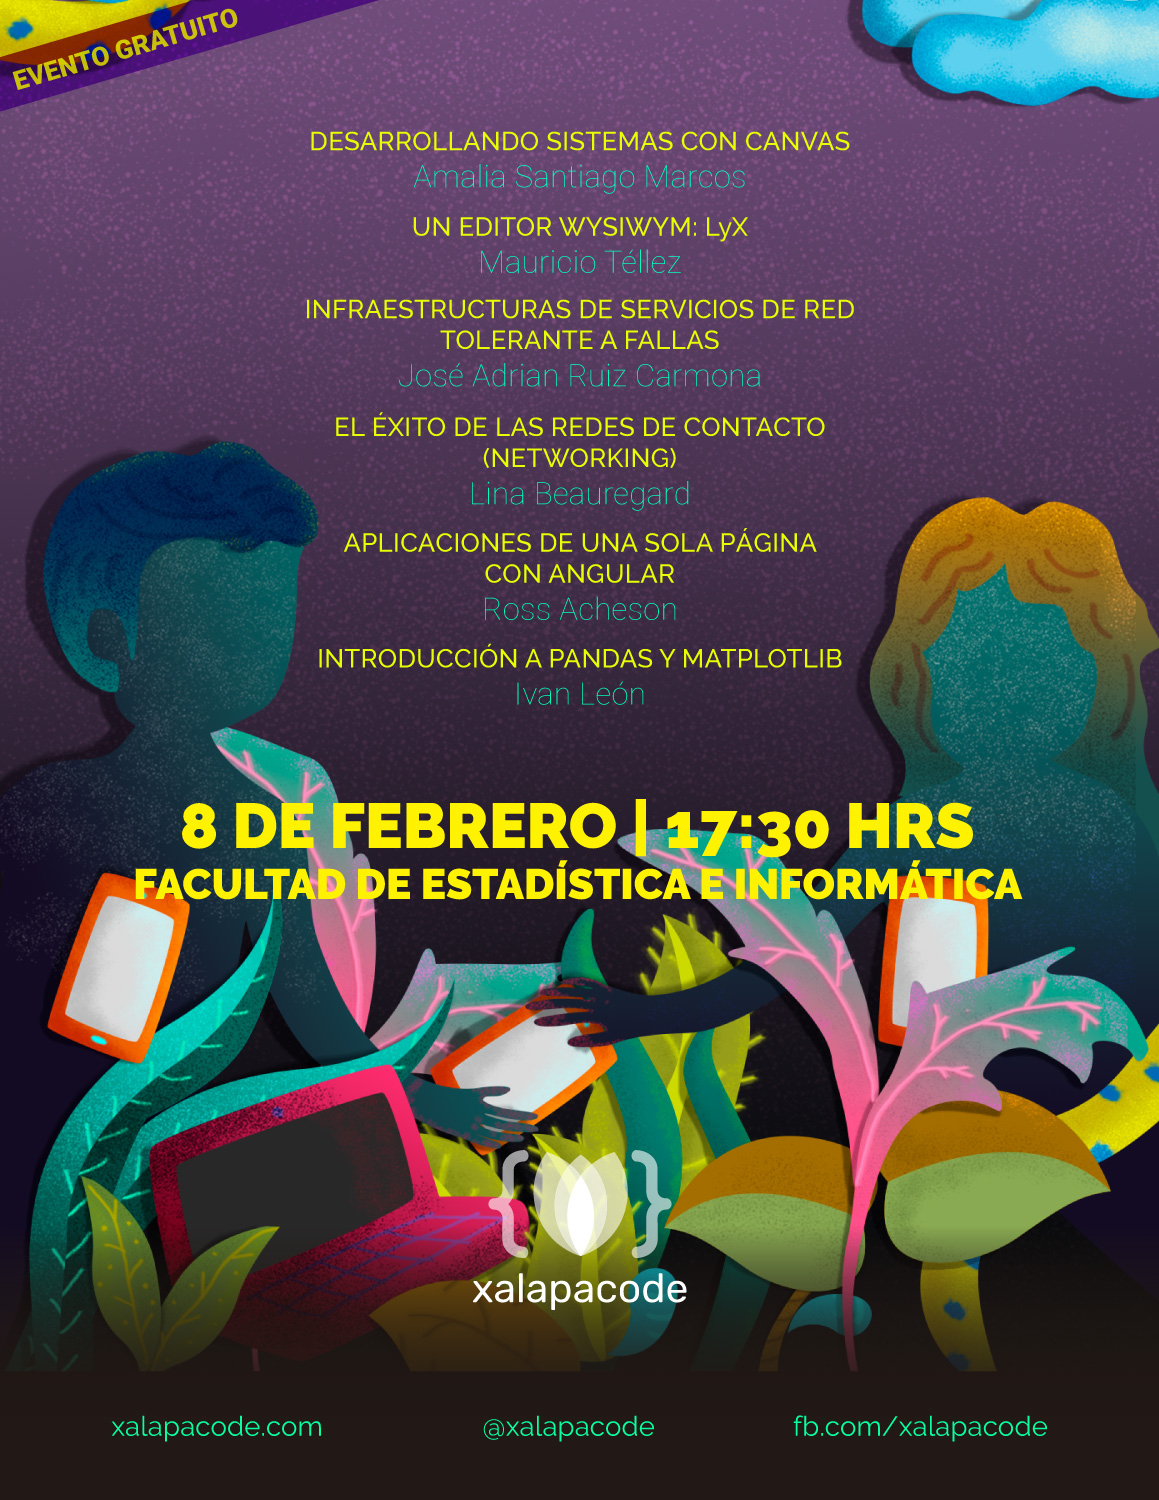
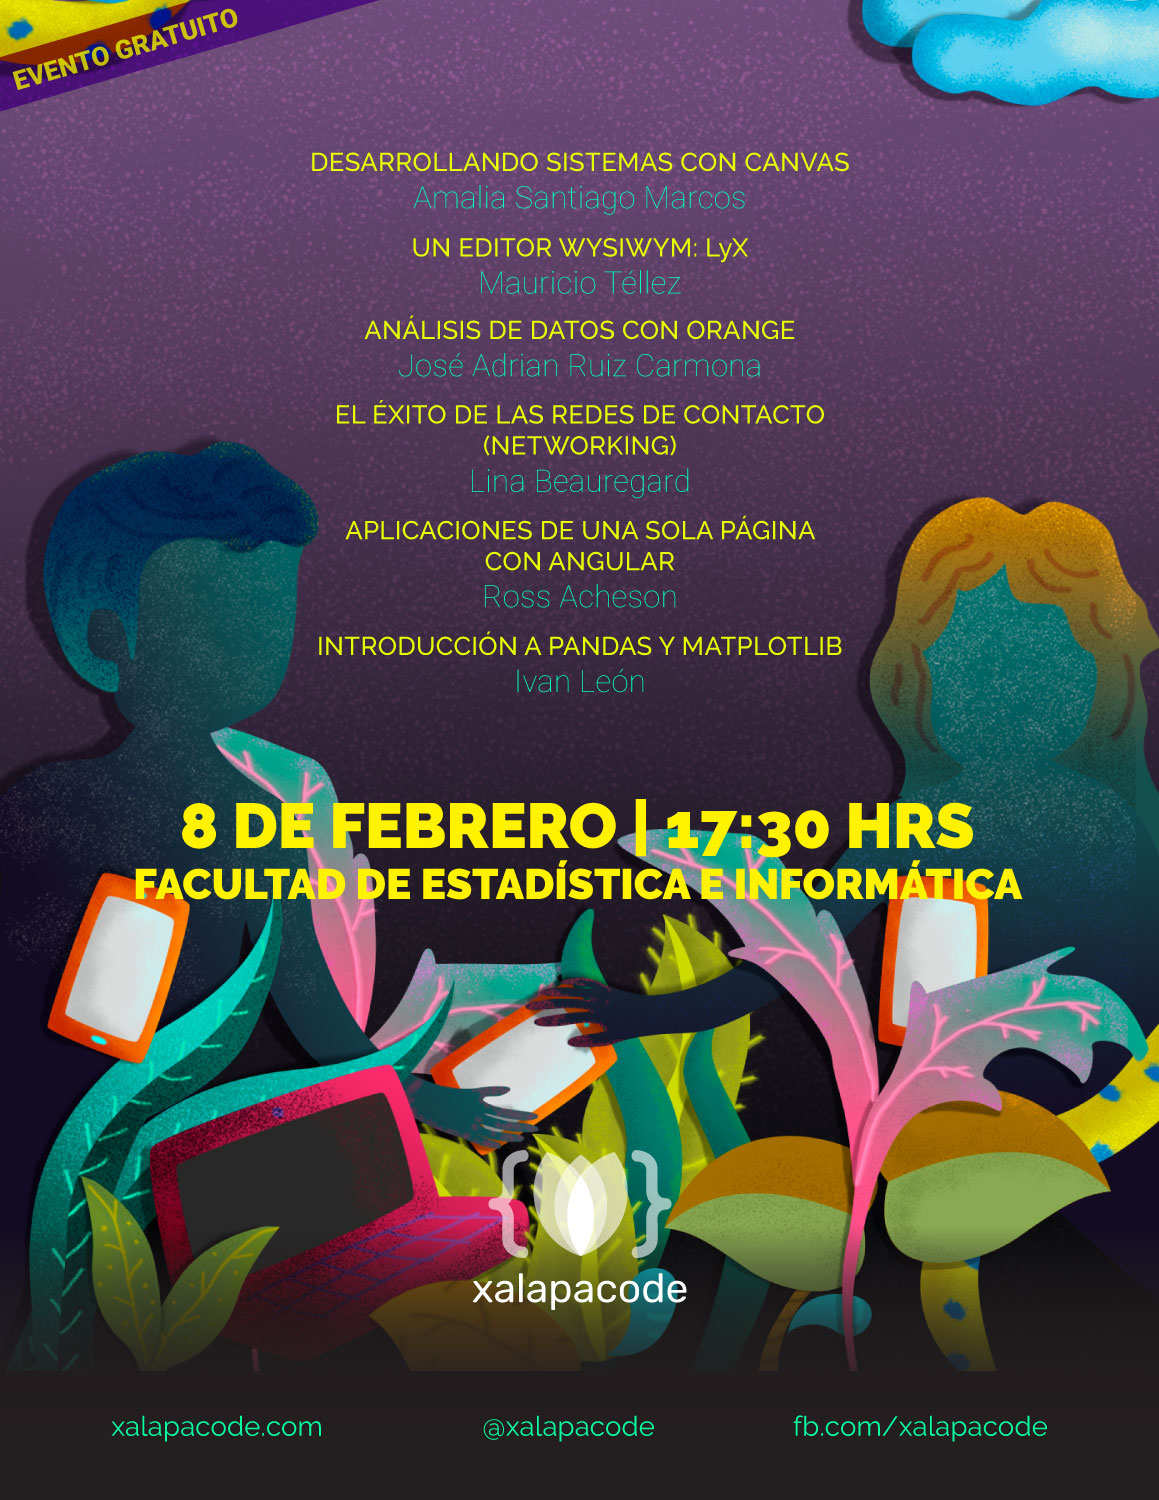
update meetup feb

Changed region(s): [[0.2485, 0.092, 0.7455, 0.46]]

diff --git a/content/eventos/meetup-2019-02-08.md b/content/eventos/meetup-2019-02-08.md
@@ -7,7 +7,7 @@ event_place = "Facultad de Estadistica e Informática UV"
 description = "Volvemos a la FEIUV"
 thumbnail = "/img/eventos/meetup-080219.jpg"
 author = "Jail"
-topics = ["Desarrollando sistemas con canvas", "Un editor WYSIWYM:LyX", "Infraestructuras de Servicios de Red", "Networking", "SPA con Angular", "Pandas y MATPLOTLIB"]
+topics = ["Desarrollando sistemas con canvas", "Un editor WYSIWYM:LyX", "Analisis de datos con Orange", "Networking", "SPA con Angular", "Pandas y MATPLOTLIB"]
 turnout = 70
 +++
 
